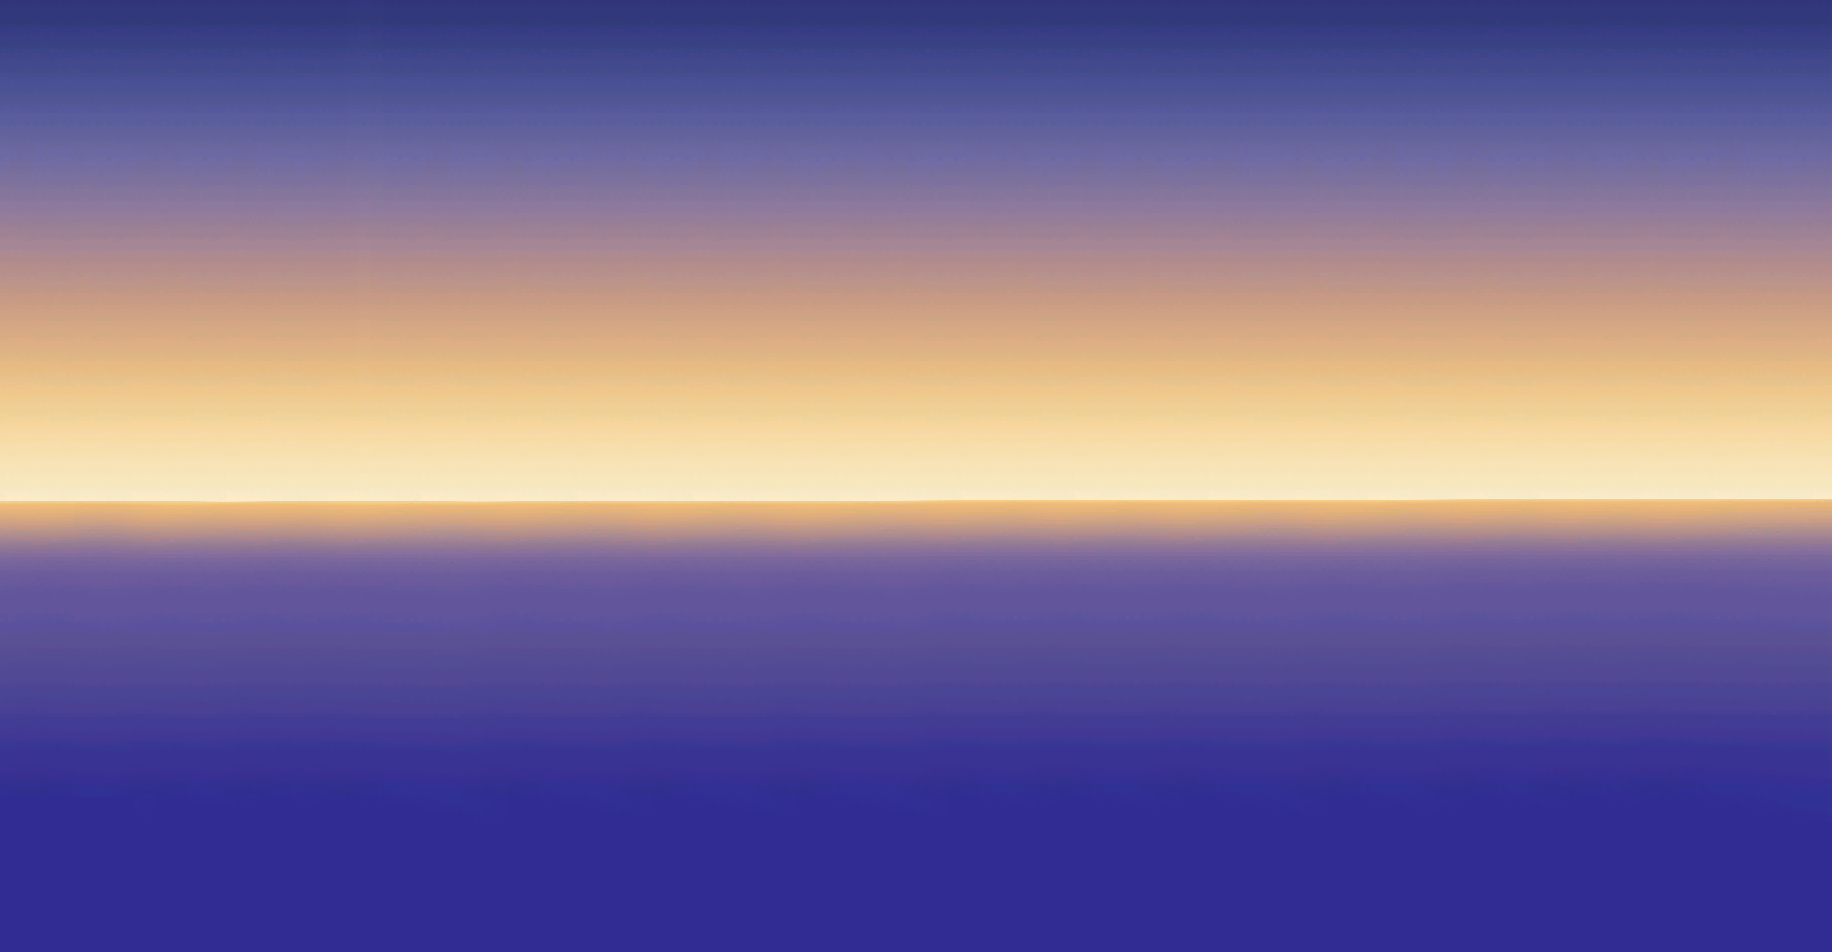
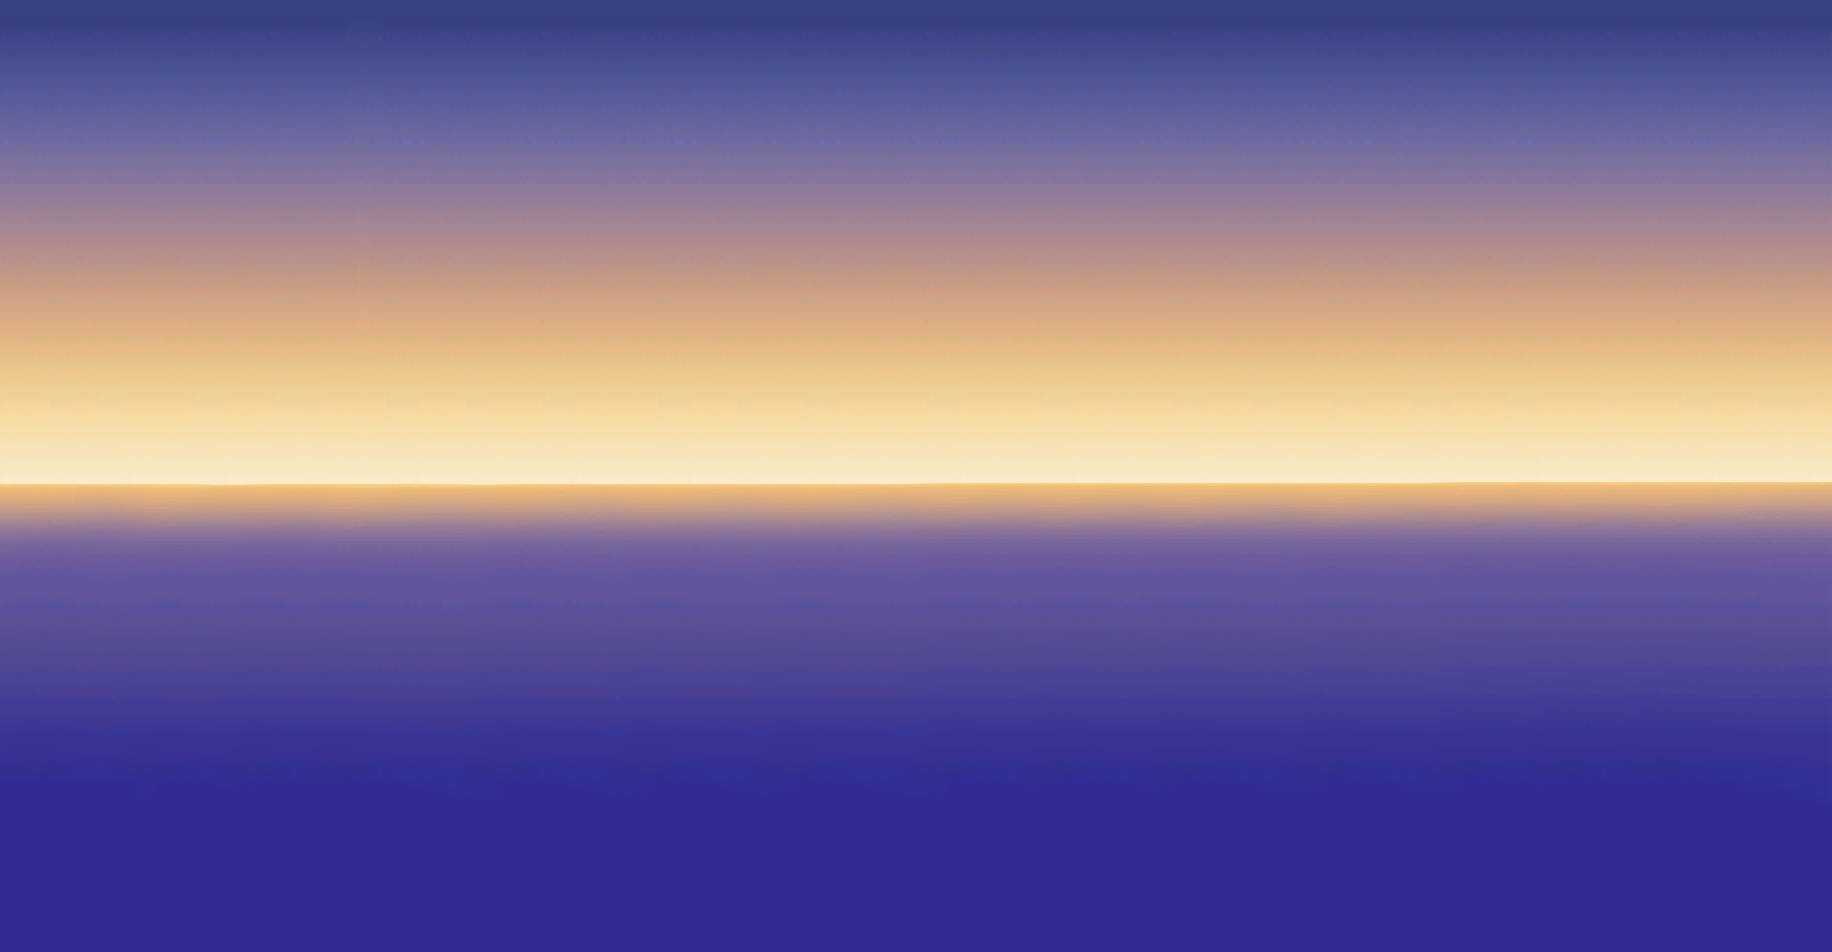
241231_자정 이미지 업데이트 완료

Changed region(s): [[0.0, 0.4874, 1.0, 0.5788]]

diff --git a/MapleContents/Dawn.cpp b/MapleContents/Dawn.cpp
@@ -14,7 +14,7 @@ ADawn::ADawn()
 
 	{
 		std::shared_ptr<class USpriteRenderer> Dawn_Sky = CreateDefaultSubObject<USpriteRenderer>();
-		Dawn_Sky->SetSprite("03_MidnightImage", 0);
+		Dawn_Sky->SetSprite("04_DawnImage", 0);
 		Dawn_Sky->SetupAttachment(RootComponent);
 		Dawn_Sky->SetScale3D({ 1832.0f , 952.0f });
 		Dawn_Sky->SetRelativeLocation({ 0.0f, -500.0f }); 
@@ -22,23 +22,23 @@ ADawn::ADawn()
 
 	{
 		std::shared_ptr<class USpriteRenderer> Dawn_Moon_LeftUp = CreateDefaultSubObject<USpriteRenderer>();
-		Dawn_Moon_LeftUp->SetSprite("03_MidnightImage", 1);
+		Dawn_Moon_LeftUp->SetSprite("04_DawnImage", 1);
 		Dawn_Moon_LeftUp->SetupAttachment(RootComponent);
-		Dawn_Moon_LeftUp->SetScale3D({ 748.0f , 514.0f });
-		Dawn_Moon_LeftUp->SetRelativeLocation({ -340.0f, 40.0f });
+		Dawn_Moon_LeftUp->SetScale3D({ 812.0f , 618.0f });
+		Dawn_Moon_LeftUp->SetRelativeLocation({ -360.0f, -20.0f });
 	}
 
 	{
 		std::shared_ptr<class USpriteRenderer> Dawn_Moon_CenterUp = CreateDefaultSubObject<USpriteRenderer>();
-		Dawn_Moon_CenterUp->SetSprite("03_MidnightImage", 2);
+		Dawn_Moon_CenterUp->SetSprite("04_DawnImage", 2);
 		Dawn_Moon_CenterUp->SetupAttachment(RootComponent);
-		Dawn_Moon_CenterUp->SetScale3D({ 536.0f , 546.0f });
-		Dawn_Moon_CenterUp->SetRelativeLocation({ 20.0f, 120.0f });
+		Dawn_Moon_CenterUp->SetScale3D({ 600.0f , 450.0f });
+		Dawn_Moon_CenterUp->SetRelativeLocation({ 20.0f, 220.0f });
 	}
 
 	{
 		std::shared_ptr<class USpriteRenderer> Dawn_Cloud_CenterBack = CreateDefaultSubObject<USpriteRenderer>();
-		Dawn_Cloud_CenterBack->SetSprite("03_MidnightImage", 15);
+		Dawn_Cloud_CenterBack->SetSprite("04_DawnImage", 15);
 		Dawn_Cloud_CenterBack->SetupAttachment(RootComponent);
 		Dawn_Cloud_CenterBack->SetScale3D({ 534.0f , 200.0f });
 		Dawn_Cloud_CenterBack->SetRelativeLocation({ 200.0f, 150.0f });
@@ -47,23 +47,23 @@ ADawn::ADawn()
 
 	{
 		std::shared_ptr<class USpriteRenderer> Dawn_Moon_RightMid = CreateDefaultSubObject<USpriteRenderer>();
-		Dawn_Moon_RightMid->SetSprite("03_MidnightImage", 2);
+		Dawn_Moon_RightMid->SetSprite("04_DawnImage", 2);
 		Dawn_Moon_RightMid->SetupAttachment(RootComponent);
-		Dawn_Moon_RightMid->SetScale3D({ 536.0f , 546.0f });
-		Dawn_Moon_RightMid->SetRelativeLocation({ 300.0f, -100.0f });
+		Dawn_Moon_RightMid->SetScale3D({ 600.0f , 450.0f });
+		Dawn_Moon_RightMid->SetRelativeLocation({ 300.0f, -50.0f });
 	}
 
 	{
 		std::shared_ptr<class USpriteRenderer> Dawn_Castle = CreateDefaultSubObject<USpriteRenderer>();
-		Dawn_Castle->SetSprite("03_MidnightImage", 4);
+		Dawn_Castle->SetSprite("04_DawnImage", 4);
 		Dawn_Castle->SetupAttachment(RootComponent);
-		Dawn_Castle->SetScale3D({ 590.0f , 76.0f });
+		Dawn_Castle->SetScale3D({ 584.0f , 78.0f });
 		Dawn_Castle->SetRelativeLocation({ -50.0f, -44.0f });
 	}
 
 	{
 		std::shared_ptr<class USpriteRenderer> Dawn_Cloud_LeftBottomBack = CreateDefaultSubObject<USpriteRenderer>();
-		Dawn_Cloud_LeftBottomBack->SetSprite("03_MidnightImage", 5);
+		Dawn_Cloud_LeftBottomBack->SetSprite("04_DawnImage", 5);
 		Dawn_Cloud_LeftBottomBack->SetupAttachment(RootComponent);
 		Dawn_Cloud_LeftBottomBack->SetScale3D({ 1600.0f , 220.0f });
 		Dawn_Cloud_LeftBottomBack->SetRelativeLocation({ -760.0f, -210.0f });
@@ -73,23 +73,23 @@ ADawn::ADawn()
 
 	{
 		std::shared_ptr<class USpriteRenderer> Dawn_Cloud_LeftCenter = CreateDefaultSubObject<USpriteRenderer>();
-		Dawn_Cloud_LeftCenter->SetSprite("03_MidnightImage", 6);
+		Dawn_Cloud_LeftCenter->SetSprite("04_DawnImage", 6);
 		Dawn_Cloud_LeftCenter->SetupAttachment(RootComponent);
-		Dawn_Cloud_LeftCenter->SetScale3D({ 496.0f , 210.0f });
+		Dawn_Cloud_LeftCenter->SetScale3D({ 484.0f , 210.0f });
 		Dawn_Cloud_LeftCenter->SetRelativeLocation({ -310.0f, -20.0f });
 	}
 
 	{
 		std::shared_ptr<class USpriteRenderer> Dawn_Cloud_RightUP = CreateDefaultSubObject<USpriteRenderer>();
-		Dawn_Cloud_RightUP->SetSprite("03_MidnightImage", 6);
+		Dawn_Cloud_RightUP->SetSprite("04_DawnImage", 6);
 		Dawn_Cloud_RightUP->SetupAttachment(RootComponent);
-		Dawn_Cloud_RightUP->SetScale3D({ 496.0f , 210.0f });
+		Dawn_Cloud_RightUP->SetScale3D({ 484.0f , 210.0f });
 		Dawn_Cloud_RightUP->SetRelativeLocation({ 580.0f, 150.0f });
 	}
 
 	{
 		std::shared_ptr<class USpriteRenderer> Dawn_Cloud_RightBack = CreateDefaultSubObject<USpriteRenderer>();
-		Dawn_Cloud_RightBack->SetSprite("03_MidnightImage", 8);
+		Dawn_Cloud_RightBack->SetSprite("04_DawnImage", 8);
 		Dawn_Cloud_RightBack->SetupAttachment(RootComponent);
 		Dawn_Cloud_RightBack->SetScale3D({ 1440.0f , 440.0f });
 		Dawn_Cloud_RightBack->SetRelativeLocation({ 1000.0f, 100.0f });
@@ -97,7 +97,7 @@ ADawn::ADawn()
 
 	{
 		std::shared_ptr<class USpriteRenderer> Dawn_Cloud_LeftBot = CreateDefaultSubObject<USpriteRenderer>();
-		Dawn_Cloud_LeftBot->SetSprite("03_MidnightImage", 7);
+		Dawn_Cloud_LeftBot->SetSprite("04_DawnImage", 7);
 		Dawn_Cloud_LeftBot->SetupAttachment(RootComponent);
 		Dawn_Cloud_LeftBot->SetScale3D({ 1116.0f , 466.0f });
 		Dawn_Cloud_LeftBot->SetRelativeLocation({ -600.0f, -250.0f });
@@ -105,14 +105,14 @@ ADawn::ADawn()
 
 	{
 		std::shared_ptr<class USpriteRenderer> Dawn_Cloud_RightBot = CreateDefaultSubObject<USpriteRenderer>();
-		Dawn_Cloud_RightBot->SetSprite("03_MidnightImage", 7);
+		Dawn_Cloud_RightBot->SetSprite("04_DawnImage", 7);
 		Dawn_Cloud_RightBot->SetupAttachment(RootComponent);
-		Dawn_Cloud_RightBot->SetScale3D({ 1068.0f , 466.0f });
+		Dawn_Cloud_RightBot->SetScale3D({ 1116.0f , 466.0f });
 		Dawn_Cloud_RightBot->SetRelativeLocation({ 650.0f, -200.0f });
 	}
 	{
 		std::shared_ptr<class USpriteRenderer> Dawn_Cliff1 = CreateDefaultSubObject<USpriteRenderer>();
-		Dawn_Cliff1->SetSprite("03_MidnightImage", 9);
+		Dawn_Cliff1->SetSprite("04_DawnImage", 9);
 		Dawn_Cliff1->SetupAttachment(RootComponent);
 		Dawn_Cliff1->SetScale3D({ 224.0f , 546.0f });
 		Dawn_Cliff1->SetRelativeLocation({ -806.0f, -200.0f });
@@ -120,7 +120,7 @@ ADawn::ADawn()
 
 	{
 		std::shared_ptr<class USpriteRenderer> Dawn_Cliff2 = CreateDefaultSubObject<USpriteRenderer>();
-		Dawn_Cliff2->SetSprite("03_MidnightImage", 10);
+		Dawn_Cliff2->SetSprite("04_DawnImage", 10);
 		Dawn_Cliff2->SetupAttachment(RootComponent);
 		Dawn_Cliff2->SetScale3D({ 248.0f , 654.0f });
 		Dawn_Cliff2->SetRelativeLocation({ 792.0f, -210.0f });
@@ -128,7 +128,7 @@ ADawn::ADawn()
 
 	{
 		std::shared_ptr<class USpriteRenderer> Dawn_Floor = CreateDefaultSubObject<USpriteRenderer>();
-		Dawn_Floor->SetSprite("03_MidnightImage", 11);
+		Dawn_Floor->SetSprite("04_DawnImage", 11);
 		Dawn_Floor->SetupAttachment(RootComponent);
 		Dawn_Floor->SetScale3D({ 1832.0f , 952.0f });
 		Dawn_Floor->SetRelativeLocation({ 0.0f, -440.0f });
@@ -136,7 +136,7 @@ ADawn::ADawn()
 
 	{
 		std::shared_ptr<class USpriteRenderer> Dawn_Stone1 = CreateDefaultSubObject<USpriteRenderer>();
-		Dawn_Stone1->SetSprite("03_MidnightImage", 12);
+		Dawn_Stone1->SetSprite("04_DawnImage", 12);
 		Dawn_Stone1->SetupAttachment(RootComponent);
 		Dawn_Stone1->SetScale3D({ 180.0f , 130.0f });
 		Dawn_Stone1->SetRelativeLocation({ -340.0f, -246.0f });
@@ -145,7 +145,7 @@ ADawn::ADawn()
 
 	{
 		std::shared_ptr<class USpriteRenderer> Dawn_Stone2 = CreateDefaultSubObject<USpriteRenderer>();
-		Dawn_Stone2->SetSprite("03_MidnightImage", 13);
+		Dawn_Stone2->SetSprite("04_DawnImage", 13);
 		Dawn_Stone2->SetupAttachment(RootComponent);
 		Dawn_Stone2->SetScale3D({ 312.0f , 114.0f });
 		Dawn_Stone2->SetRelativeLocation({ 300.0f, -246.0f });
@@ -153,7 +153,7 @@ ADawn::ADawn()
 
 	{
 		std::shared_ptr<class USpriteRenderer> Dawn_Fog_BottomLeft = CreateDefaultSubObject<USpriteRenderer>();
-		Dawn_Fog_BottomLeft->SetSprite("03_MidnightImage", 14);
+		Dawn_Fog_BottomLeft->SetSprite("04_DawnImage", 14);
 		Dawn_Fog_BottomLeft->SetupAttachment(RootComponent);
 		Dawn_Fog_BottomLeft->SetScale3D({ 972.0f , 366.0f });
 		Dawn_Fog_BottomLeft->SetRelativeLocation({ -600.0f, -400.0f });
@@ -161,7 +161,7 @@ ADawn::ADawn()
 
 	{
 		std::shared_ptr<class USpriteRenderer> Dawn_Fog_BottomRight = CreateDefaultSubObject<USpriteRenderer>();
-		Dawn_Fog_BottomRight->SetSprite("03_MidnightImage", 14);
+		Dawn_Fog_BottomRight->SetSprite("04_DawnImage", 14);
 		Dawn_Fog_BottomRight->SetupAttachment(RootComponent);
 		Dawn_Fog_BottomRight->SetScale3D({ 972.0f , 366.0f });
 		Dawn_Fog_BottomRight->SetRelativeLocation({ 600.0f, -400.0f });

diff --git a/MapleContents/MidNight.cpp b/MapleContents/MidNight.cpp
@@ -107,7 +107,7 @@ AMidNight::AMidNight()
 		std::shared_ptr<class USpriteRenderer> MidNight_Cloud_RightBot = CreateDefaultSubObject<USpriteRenderer>();
 		MidNight_Cloud_RightBot->SetSprite("03_MidnightImage", 7);
 		MidNight_Cloud_RightBot->SetupAttachment(RootComponent);
-		MidNight_Cloud_RightBot->SetScale3D({ 1068.0f , 466.0f });
+		MidNight_Cloud_RightBot->SetScale3D({ 1116.0f , 466.0f });
 		MidNight_Cloud_RightBot->SetRelativeLocation({ 650.0f, -200.0f });
 	}
 	{
